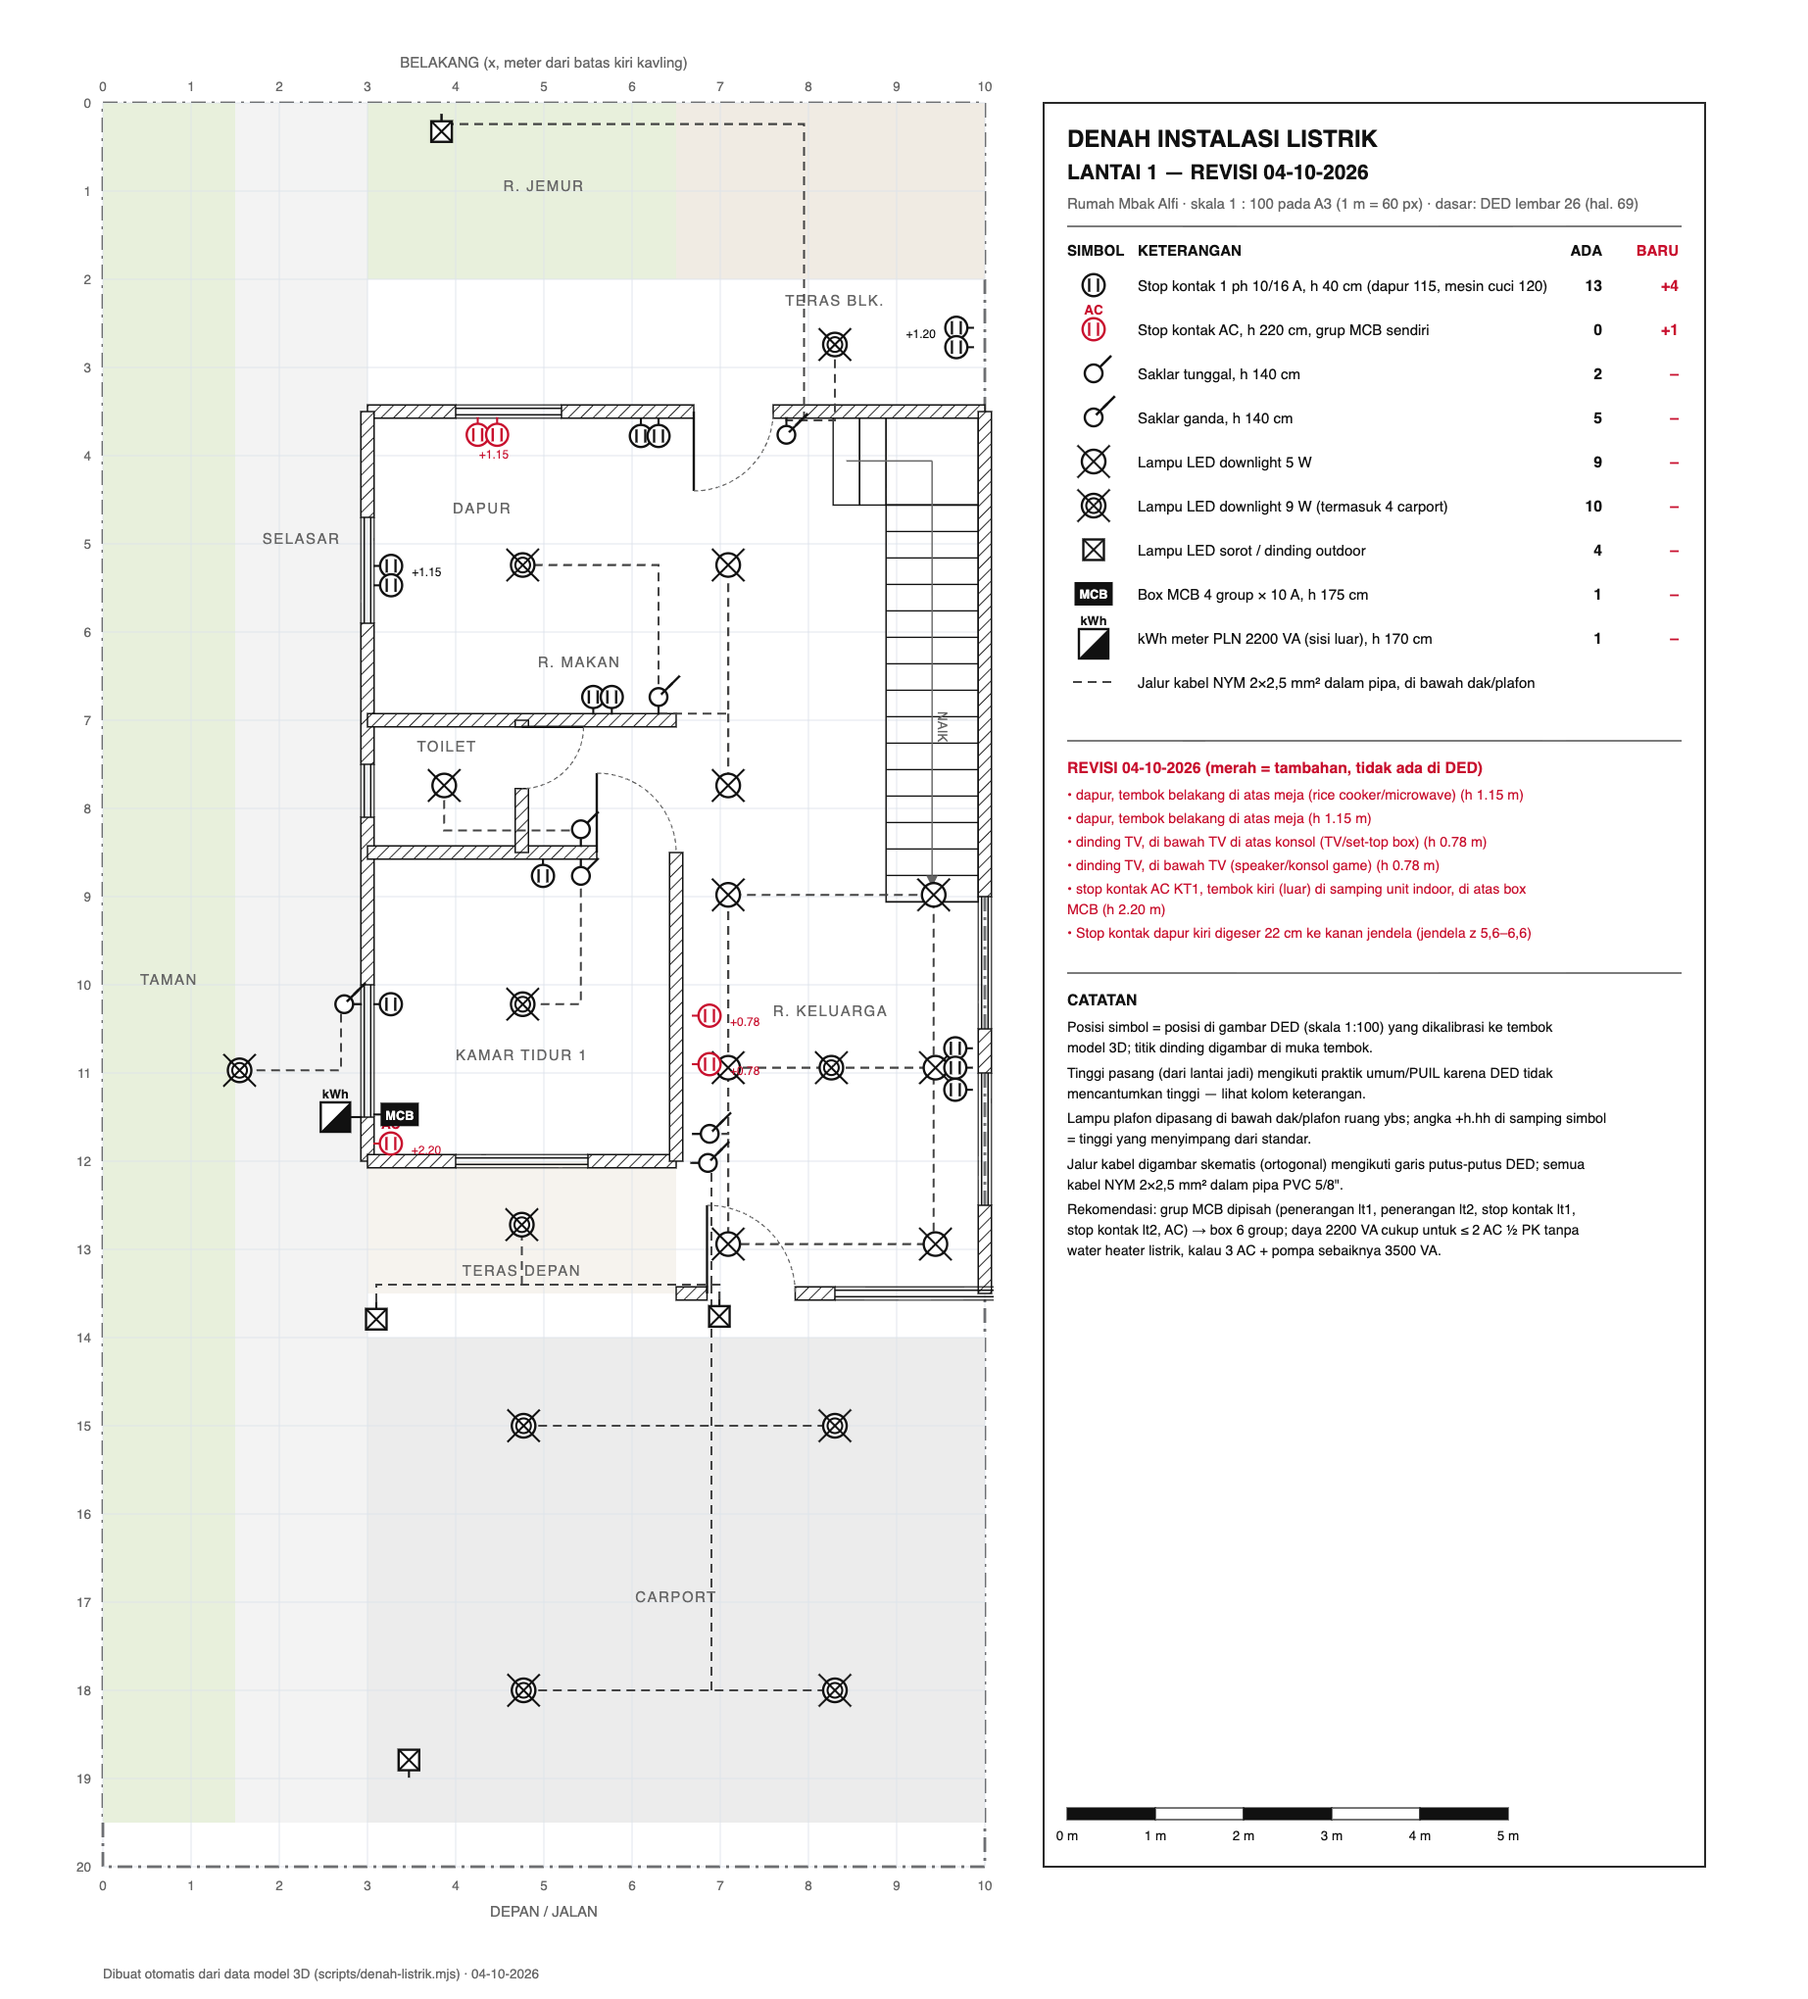
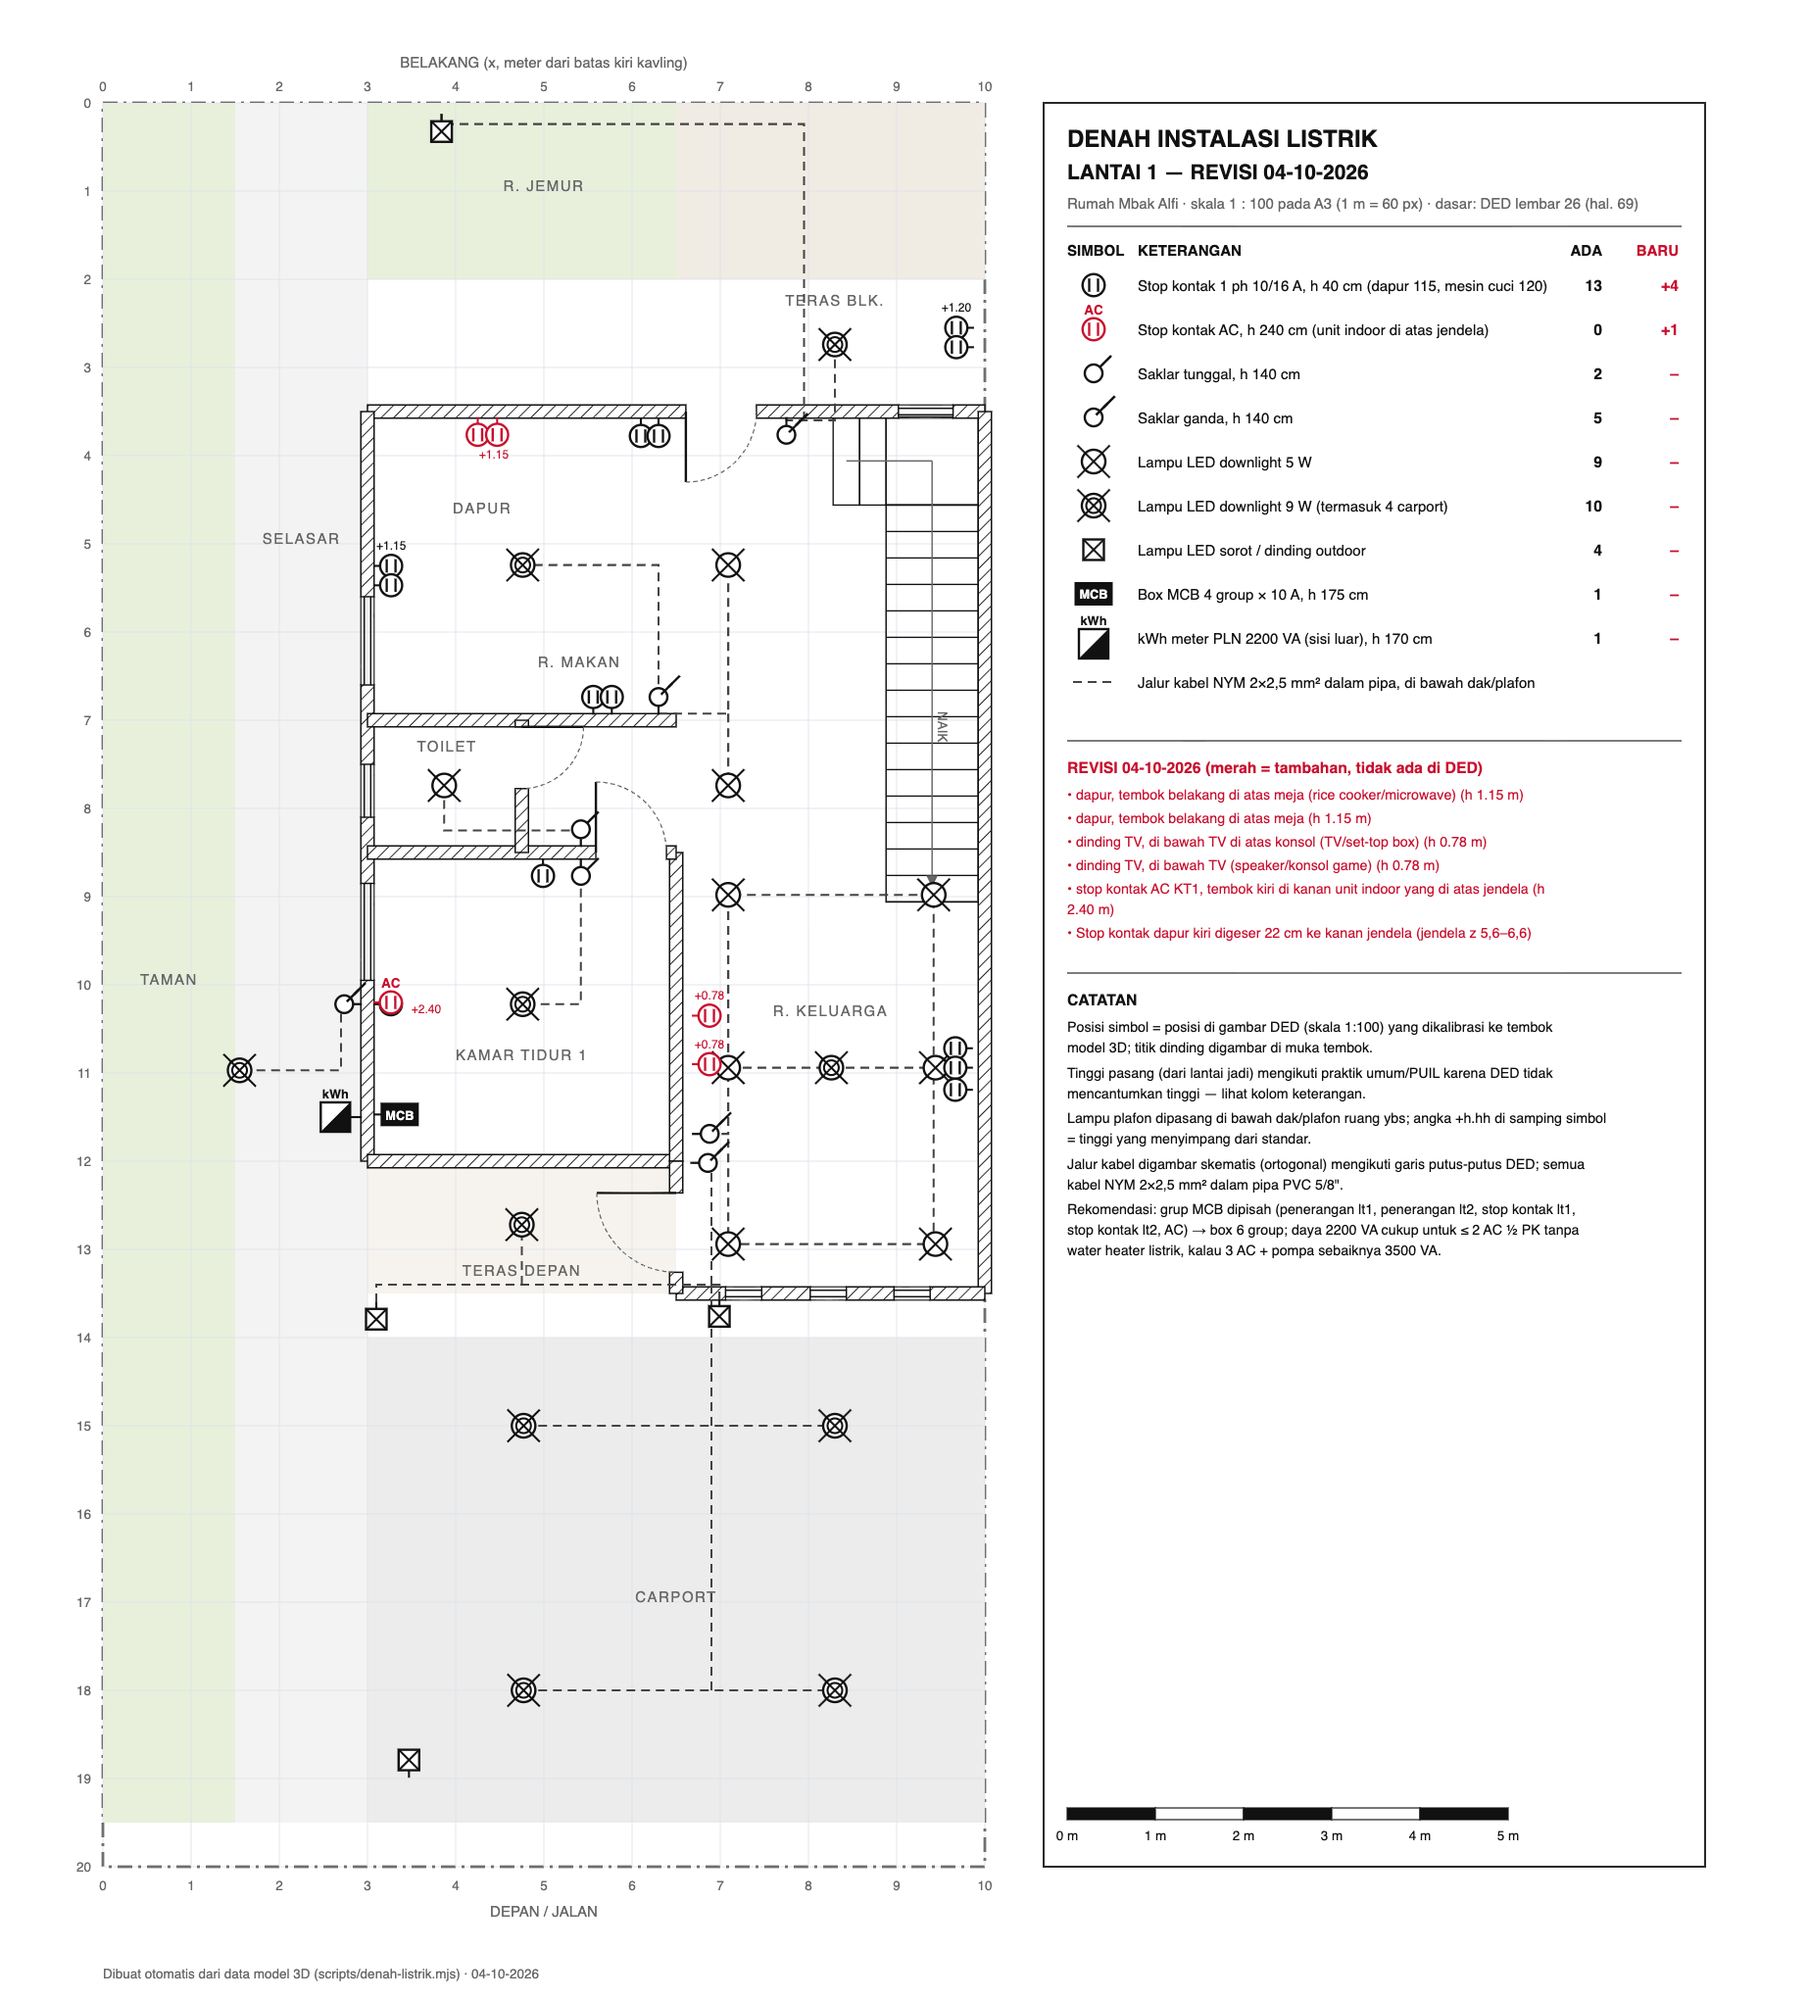
AC dipindah ke atas jendela; stop kontak R. keluarga lt2 di dinding seberang; denah 2D pakai bukaan SKP
Unit AC indoor kini tepat di atas kusen jendela (KT1 z 8.85–9.95, KT2
z 5.6–6.7) dan pintu geser balkon KTU (z 8.6–10.09); rel gorden
diturunkan ke 2,10–2,17 m supaya tidak menutupi unit, stop kontak AC
h 2,4 di samping unit. Tiga stop kontak baru di tembok KTU ruang keluarga
lt2 (1 rendah di kanan pintu, 2 di atas sideboard) karena semua titik DED
menumpuk di tembok kanan.

Denah 2D: bukaan pintu/jendela diambil dari ukuran model SKP (bukan model
blok) termasuk tembok x 6.5 teras/balkon depan dengan pintu utama, pintu
geser digambar sebagai dua daun, label tinggi di atas simbol, legenda AC
dipendekkan.

diff --git a/src/layout/elektrik.js b/src/layout/elektrik.js
@@ -6,7 +6,7 @@
 // saklar 140 cm; box MCB pusat 175 cm; kWh meter pusat 170 cm; lampu sorot/dinding luar: fasad 230 cm, pagar 175–220 cm;
 // lampu dinding lt2 mengikuti titik lampu yang sudah ada di fasad model SKP (x 6.1, 130 cm di atas lantai lt2).
 // n = arah muka perangkat (normal tembok ke dalam ruang). t: stopkontak | saklar1 (tunggal) | saklar2 (ganda) | mcb | kwh | sconce.
-// ac: true = stop kontak AC (h 2.2); baru: true = tambahan revisi 4/10/2026 (tidak ada di gambar DED): 3 AC, 2 dinding TV, 2 dapur.
+// ac: true = stop kontak AC (h 2.4, di samping unit indoor yang dipasang tepat di atas kusen jendela/pintu geser); baru: true = tambahan revisi 4/10/2026 (tidak ada di gambar DED): 3 AC, 2 dinding TV, 2 dapur.
 // Koordinat tembok sudah di-snap ke muka tembok model SKP (raycast): kiri 3.061, kanan 9.88, belakang 3.56, dst.
 export const PERANGKAT = [
   // ---------------- LANTAI 1: stop kontak 13 (sesuai legenda gambar) ----------------
@@ -27,7 +27,7 @@ export const PERANGKAT = [
   { lvl: 'lt1', t: 'stopkontak', x: 9.865, z: 11.19, n: '-x', h: 0.4, r: 'R. keluarga, tembok kanan' },
   { lvl: 'lt1', t: 'stopkontak', x: 6.679, z: 10.35, n: '+x', h: 0.78, baru: true, r: 'REVISI: dinding TV, di bawah TV di atas konsol (TV/set-top box) — tambahan' },
   { lvl: 'lt1', t: 'stopkontak', x: 6.679, z: 10.90, n: '+x', h: 0.78, baru: true, r: 'REVISI: dinding TV, di bawah TV (speaker/konsol game) — tambahan' },
-  { lvl: 'lt1', t: 'stopkontak', x: 3.065, z: 11.8, n: '+x', h: 2.2, ac: true, baru: true, r: 'REVISI: stop kontak AC KT1, tembok kiri (luar) di samping unit indoor, di atas box MCB — tambahan' },
+  { lvl: 'lt1', t: 'stopkontak', x: 3.065, z: 10.2, n: '+x', h: 2.4, ac: true, baru: true, r: 'REVISI: stop kontak AC KT1, tembok kiri di kanan unit indoor yang di atas jendela — tambahan' },
   // ---------------- LANTAI 1: saklar 7 (2 tunggal + 5 ganda) ----------------
   { lvl: 'lt1', t: 'saklar2', x: 7.75, z: 3.564, n: '+z', h: 1.4, r: 'dapur, kanan pintu belakang → lampu teras belakang + area jemur' },
   { lvl: 'lt1', t: 'saklar2', x: 6.30, z: 6.937, n: '-z', h: 1.4, r: 'ruang makan, tembok toilet → lampu dapur, r. makan, lorong' },
@@ -54,8 +54,13 @@ export const PERANGKAT = [
   { lvl: 'lt2', t: 'stopkontak', x: 9.876, z: 12.41, n: '-x', h: 0.4, r: 'R. keluarga lt2, tembok kanan depan' },
   { lvl: 'lt2', t: 'stopkontak', x: 9.876, z: 12.63, n: '-x', h: 0.4, r: 'R. keluarga lt2, tembok kanan depan' },
   { lvl: 'lt2', t: 'stopkontak', x: 9.876, z: 12.85, n: '-x', h: 0.4, r: 'R. keluarga lt2, tembok kanan depan' },
-  { lvl: 'lt2', t: 'stopkontak', x: 5.30, z: 3.564, n: '+z', h: 2.2, ac: true, baru: true, r: 'REVISI: stop kontak AC KT2, tembok belakang (ke balkon belakang) di samping unit indoor — tambahan' },
-  { lvl: 'lt2', t: 'stopkontak', x: 3.065, z: 11.7, n: '+x', h: 2.2, ac: true, baru: true, r: 'REVISI: stop kontak AC KTU, tembok kiri (ke balkon) di samping unit indoor — tambahan' },
+  { lvl: 'lt2', t: 'stopkontak', x: 3.065, z: 5.45, n: '+x', h: 2.4, ac: true, baru: true, r: 'REVISI: stop kontak AC KT2, tembok kiri di kiri unit indoor yang di atas jendela — tambahan' },
+  { lvl: 'lt2', t: 'stopkontak', x: 3.065, z: 10.3, n: '+x', h: 2.4, ac: true, baru: true, r: 'REVISI: stop kontak AC KTU, tembok kiri di kanan unit indoor yang di atas pintu geser balkon — tambahan' },
+  // R. keluarga lt2: 3 stop kontak DED semuanya di tembok kanan depan → tambah di tembok seberang (tembok KTU, muka x 6.563):
+  // 1 rendah di strip bebas antara ayunan pintu KTU (z ≤ 9.41) dan sideboard (z 10.03–11.85), 2 di atas sideboard (top 0.8) untuk lampu/charger.
+  { lvl: 'lt2', t: 'stopkontak', x: 6.563, z: 9.72, n: '+x', h: 0.4, baru: true, r: 'REVISI: R. keluarga lt2, tembok KTU (seberang), strip bebas di kanan pintu KTU — tambahan' },
+  { lvl: 'lt2', t: 'stopkontak', x: 6.563, z: 10.90, n: '+x', h: 1.05, baru: true, r: 'REVISI: R. keluarga lt2, tembok KTU di atas sideboard (top 0.80) — tambahan' },
+  { lvl: 'lt2', t: 'stopkontak', x: 6.563, z: 11.12, n: '+x', h: 1.05, baru: true, r: 'REVISI: R. keluarga lt2, tembok KTU di atas sideboard — tambahan' },
   // ---------------- LANTAI 2: saklar 8 (4 tunggal + 4 ganda) ----------------
   { lvl: 'lt2', t: 'saklar1', x: 7.73, z: 3.564, n: '+z', h: 1.4, r: 'selasar, kanan pintu balkon belakang → lampu balkon' },
   { lvl: 'lt2', t: 'saklar2', x: 6.435, z: 5.88, n: '-x', h: 1.4, r: 'KT2, samping pintu → lampu KT2' },

diff --git a/src/layout/ktu.js b/src/layout/ktu.js
@@ -15,6 +15,6 @@ export default [
   { a: 'vanity', x: 6.19, z: 10.05, ry: -Math.PI / 2, note: 'meja rias + cermin bundar di tembok kanan dekat pintu, z 9.55–10.55 (ayunan pintu z≤9.41)' },
   { a: 'dining_chair', x: 6.16, z: 10.05, ry: Math.PI / 2, note: 'kursi krem menghadap cermin (+x), muka dudukan x 6.38 < punggung meja 6.415; dudukan y≤0.495 < laci 0.60; punggung miring sampai lokal z −0.297 → x 5.863 → lorong ke alas ranjang 0.62 m; di tinggi top meja punggung x ≤ 5.935 (3 cm dari tepi top 5.965)' },
   { a: 'plant_small', x: 6.3, z: 10.42, y: 0.76, note: 'dekor kecil di atas meja rias' },
-  { a: 'curtain_dark', x: 3.17, z: 9.93, ry: Math.PI / 2, sx: 0.45, flat: 0xb3aca2, note: 'gorden tipis abu hangat (greige, seperti hal-39) ditumpuk ke sisi ranjang: kain z 9.48–10.38, rel z 9.455–10.405 → sepenuhnya di luar jalur z 8.6–9.45 & ayunan pintu toilet; menutup bagian jauh pintu geser (≤10.09) + tembok setelah kusen' },
-  { a: 'ac_indoor', x: 3.065, z: 11.02, y: 2.45, ry: Math.PI / 2, note: 'AC indoor di tembok kiri (ke balkon) z 10.6–11.45, y 2.3–2.6; stop kontak AC di z 11.7 h 2.2' },
+  { a: 'curtain_dark', x: 3.17, z: 9.93, ry: Math.PI / 2, sx: 0.602, scale: 0.748, flat: 0xb3aca2, note: 'gorden tipis abu hangat (greige, seperti hal-39) ditumpuk ke sisi ranjang: kain z 9.48–10.38, rel z 9.455–10.405 → sepenuhnya di luar jalur z 8.6–9.45 & ayunan pintu toilet; menutup bagian jauh pintu geser (≤10.09) + tembok setelah kusen' },
+  { a: 'ac_indoor', x: 3.065, z: 9.345, y: 2.38, ry: Math.PI / 2, note: 'AC indoor DI ATAS PINTU GESER balkon (bukaan z 8.6–10.09, puncak kusen 2.12): unit z 8.92–9.77, y 2.235–2.525 (plafon 3.3); stop kontak AC di z 10.3 h 2.4' },
 ];

diff --git a/src/layout/kt1.js b/src/layout/kt1.js
@@ -16,6 +16,6 @@ export default [
   { a: 'dining_chair', x: 3.87, z: 9.14, ry: -Math.PI / 2, note: 'kursi krem kaki hitam menghadap jendela (−x): x 3.65–4.17, z 8.92–9.36; ruang tarik kursi ±1.4 m ke arah +x' },
   { a: 'plant_small', x: 3.5, z: 9.5, y: 0.76, note: 'tanaman kecil di atas meja (hal. 33: diffuser/tanaman di meja)' },
   { a: 'fm_wardrobe_grey', x: 5.85, z: 11.63, ry: Math.PI, flat: 0xa3968a, note: 'lemari 2 pintu 1.15×0.59×2.3 di pojok kanan tembok depan (x 5.275–6.425, z 11.335–11.925), menghadap −z; area buka pintu z 10.7–11.335 kosong; warna polos taupe seperti render' },
-  { a: 'curtain_cream', x: 3.17, z: 9.35, ry: Math.PI / 2, sx: 0.7, note: 'tirai krem setinggi plafon, jendela z 8.78–9.91 (lebar tirai 1.4, z 8.65–10.05; tebal x 3.16–3.30)' },
-  { a: 'ac_indoor', x: 3.065, z: 10.85, y: 2.45, ry: Math.PI / 2, note: 'AC indoor di tembok kiri (luar) z 10.43–11.28, y 2.3–2.6; stop kontak AC di z 11.8 h 2.2 (lapisan listrik)' },
+  { a: 'curtain_cream', x: 3.17, z: 9.35, ry: Math.PI / 2, sx: 0.967, scale: 0.724, note: 'tirai krem, rel di 2.10 (tepat di atas kusen, di bawah AC); jendela z 8.85–9.95 (lebar tirai 1.4, z 8.65–10.05; tebal x 3.16–3.30)' },
+  { a: 'ac_indoor', x: 3.065, z: 9.40, y: 2.32, ry: Math.PI / 2, note: 'AC indoor DI ATAS JENDELA (jendela z 8.85–9.95, puncak kusen 2.05): unit z 8.975–9.825, y 2.175–2.465; stop kontak AC di z 10.2 h 2.4 (lapisan listrik)' },
 ];

diff --git a/src/layout/kt2.js b/src/layout/kt2.js
@@ -33,6 +33,6 @@ export default [
   // Gorden krem menutup jendela penuh (lebar 1.72 m, z 5.19–6.91 < tembok toilet 6.925; lewat 46 cm dari kusen dekat z 5.65),
   // menggantung rapat tembok di x 3.12–3.26 di belakang meja (meja mulai x 3.33) → sinar pandang kamera (3.5, 4.0) yang menyerempet
   // tembok tidak lagi lolos ke kusen jendela. Tipis 14 cm, tidak mengganggu area kamera z 4–5.
-  { a: 'curtain_cream', x: 3.12, z: 6.05, ry: Math.PI / 2, sx: 0.82 },
-  { a: 'ac_indoor', x: 4.62, z: 3.564, y: 2.45, ry: 0, note: 'AC indoor di tembok belakang di atas headboard, x 4.2–5.05, y 2.3–2.6 (plafon 3.3); stop kontak AC di x 5.3 h 2.2' },
+  { a: 'curtain_cream', x: 3.12, z: 6.05, ry: Math.PI / 2, sx: 1.096, scale: 0.748, note: 'rel gorden di 2.17, tepat di atas kusen & di bawah AC; lebar tetap 1.72 (z 5.19–6.91)' },
+  { a: 'ac_indoor', x: 3.065, z: 6.15, y: 2.38, ry: Math.PI / 2, note: 'AC indoor DI ATAS JENDELA tembok kiri (jendela z 5.6–6.7, puncak kusen 2.12): unit z 5.725–6.575, y 2.235–2.525 (plafon 3.3); stop kontak AC di z 5.45 h 2.4' },
 ];
